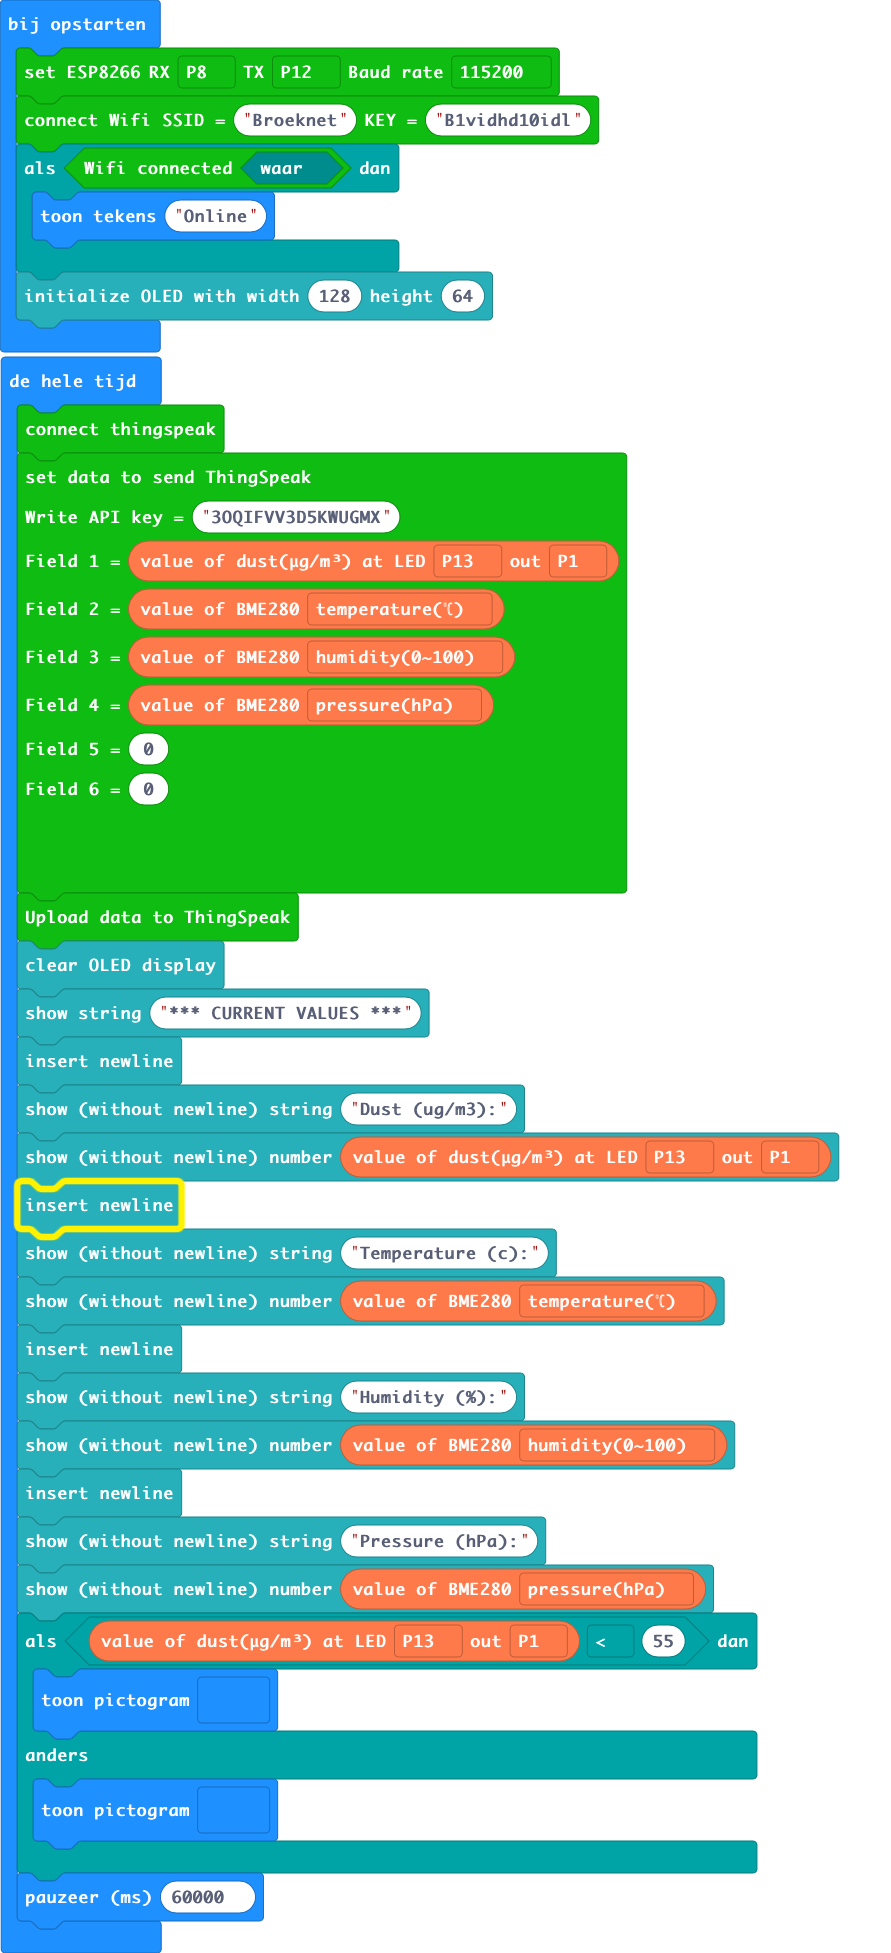
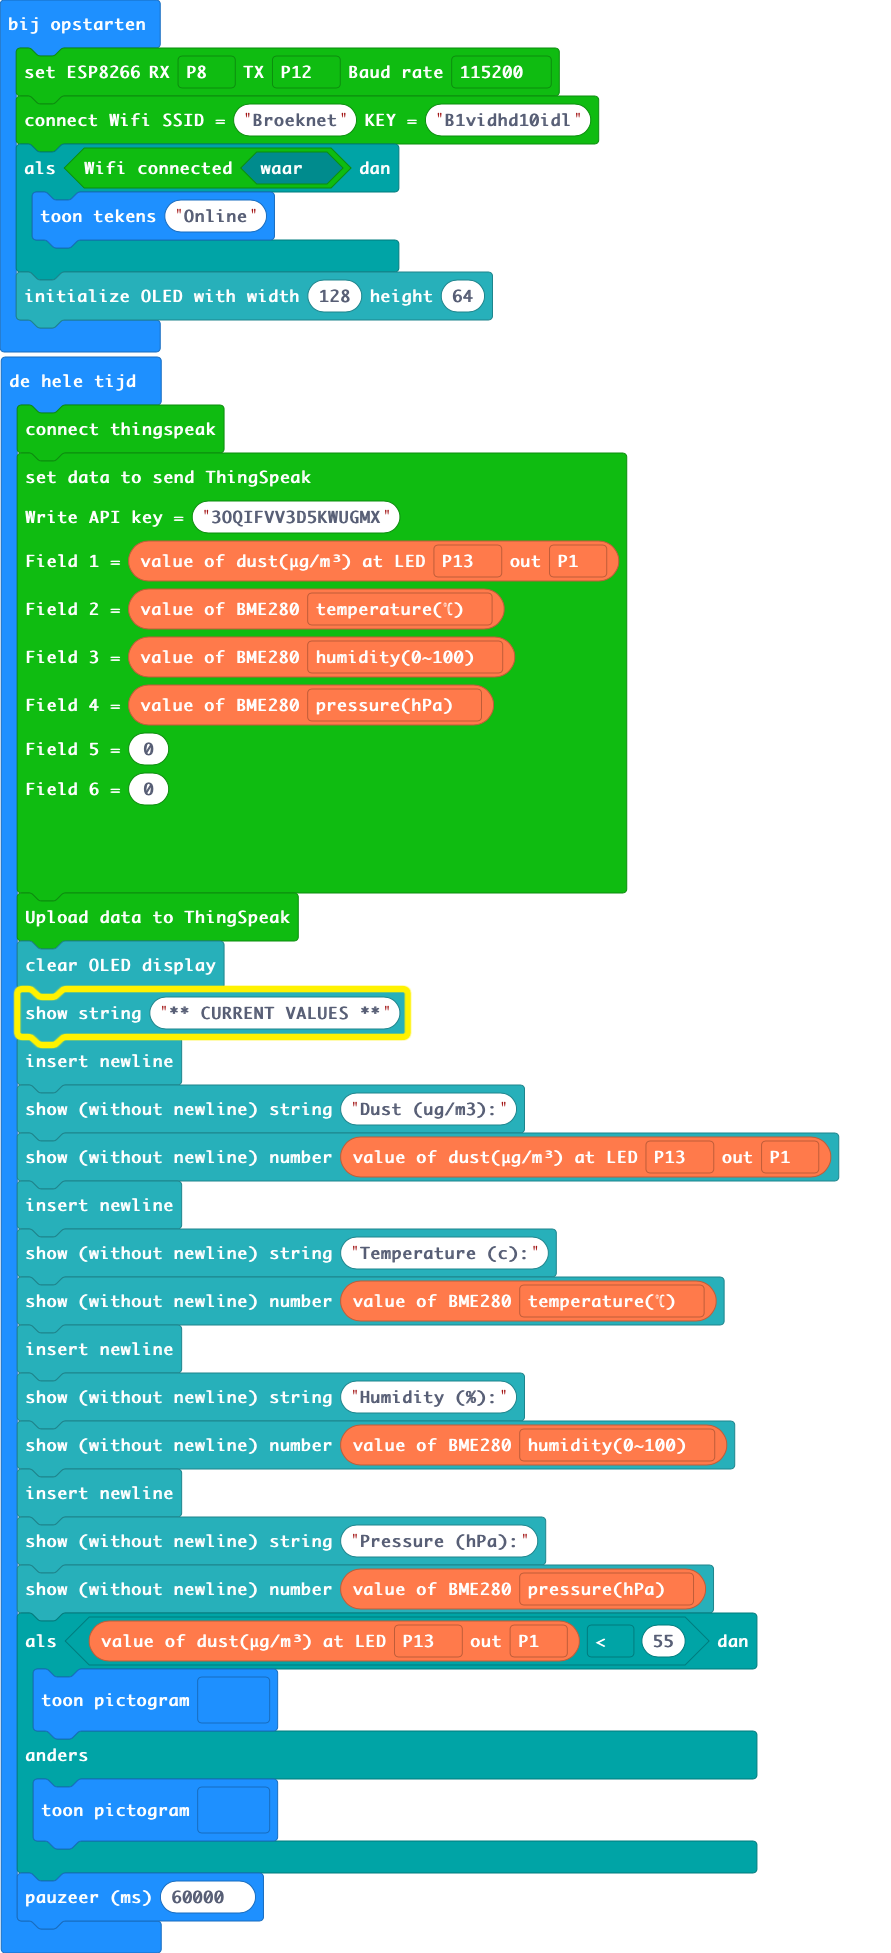
Cosmetics

Changed region(s): [[0.0, 0.4997, 0.4848, 0.5622], [0.0, 0.5934, 0.2121, 0.6559]]

diff --git a/main.ts b/main.ts
@@ -17,7 +17,7 @@ basic.forever(function () {
     )
     ESP8266_IoT.uploadData()
     OLED.clear()
-    OLED.writeStringNewLine("*** CURRENT VALUES ***")
+    OLED.writeStringNewLine("** CURRENT VALUES **")
     OLED.newLine()
     OLED.writeString("Dust (ug/m3):")
     OLED.writeNum(Environment.ReadDust(DigitalPin.P13, AnalogPin.P1))
